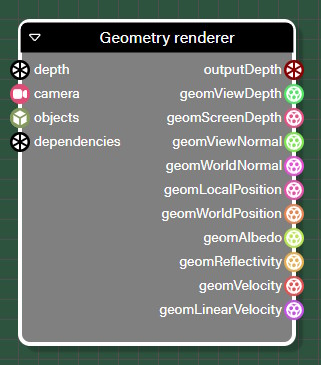
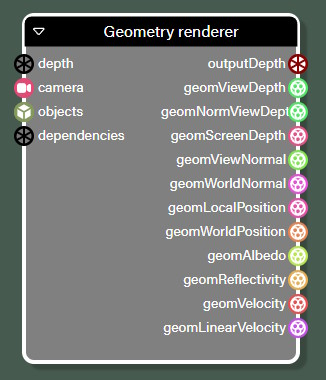
Add geometry texture VAT example to frame graph doc

diff --git a/content/features/featuresDeepDive/frameGraph/frameGraphExamples/frameGraphExampleGeometryVAT.md b/content/features/featuresDeepDive/frameGraph/frameGraphExamples/frameGraphExampleGeometryVAT.md
@@ -1,0 +1,121 @@
+---
+title: Generating geometry textures for VAT
+image:
+description: Use a frame graph to render geometry texture(s) for VAT
+keywords: diving deeper, frame graph, geometry, examples, vat,
+---
+
+## Introduction
+
+VAT (Vertex Animation Texture) or BVA (Baked Vertex Animation) is a way to support a large number of animated meshes by pre-calculating the animations. For more information, see [Baked Texture Animations](/features/featuresDeepDive/animation/baked_texture_animations).
+
+VAT is not supported by the [geometry buffer renderer](/typedoc/classes/babylon.geometrybufferrenderer). Therefore, if you use it to generate a normal map (or any other geometry texture) with VAT meshes, it will not work as expected.
+
+For example: <Playground id="#VI0JUJ#3" title="VAT and geometry buffer renderer" description="VAT not working with the geometry buffer renderer" isMain={false}/>
+
+You can see that the spiders are not animated in the normal texture (which is used as the emissive texture on the plane facing the camera).
+
+Let's use a frame graph to make it work!
+
+## Using a frame graph
+
+We will use a frame graph to generate the normal texture, instead of using the geometry buffer renderer as in the previous example.
+Note that the frame graph will not take control of the entire scene rendering loop: we will not set `scene.frameGraph` with our frame graph, but rather execute it manually.
+
+The frame graph is actually very simple; we only need a geometry renderer task and to configure it to generate the normal texture.
+
+First, we create the frame graph and the depth texture that will be used by the geometry renderer. We also clear the depth texture:
+```javascript
+const frameGraph = new BABYLON.FrameGraph(scene);
+
+const depthTexture = frameGraph.textureManager.createRenderTargetTexture("depth", {
+    size: { width: 100, height: 100 },
+    sizeIsPercentage: true,
+    options: {
+        createMipMaps: false,
+        types: [BABYLON.Constants.TEXTURETYPE_UNSIGNED_BYTE],
+        formats: [BABYLON.Constants.TEXTUREFORMAT_DEPTH32_FLOAT],
+        samples: 1,
+        useSRGBBuffers: [false],
+        labels: ["depth"],
+    },
+});
+
+const clearTask = new BABYLON.FrameGraphClearTextureTask("clear", frameGraph);
+
+clearTask.clearColor = false;
+clearTask.clearDepth = true;
+clearTask.depthTexture = depthTexture;
+
+frameGraph.addTask(clearTask);
+```
+We can now create the geometry renderer task:
+```javascript
+const rlist = {
+    meshes: [mesh],
+    particleSystems: []
+}
+
+const geomRendererTask = new BABYLON.FrameGraphGeometryRendererTask("geomRenderer", frameGraph, scene);
+
+geomRendererTask.depthTexture = clearTask.outputDepthTexture;
+geomRendererTask.objectList = rlist;
+geomRendererTask.camera = camera;
+geomRendererTask.samples = 1;
+geomRendererTask.textureDescriptions.push({
+    type: BABYLON.Constants.PREPASS_NORMAL_TEXTURE_TYPE,
+    textureFormat: BABYLON.Constants.TEXTUREFORMAT_RGBA,
+    textureType: BABYLON.Constants.TEXTURETYPE_UNSIGNED_BYTE,
+});
+
+frameGraph.addTask(geomRendererTask);
+```
+Note how we configure the task to generate the normal texture: this is an entry we add to the `geomRendererTask.textureDescriptions` array of the task.
+
+That's all it takes to create the graph. Now we need to retrieve the texture and set it as the emissive texture of the plane material:
+```javascript
+let texture = null;
+
+frameGraph.onBuildObservable.add(() => {
+    const geomTexture = frameGraph.textureManager.getTextureFromHandle(geomRendererTask.geometryViewNormalTexture);
+    geomTexture.incrementReferences();
+
+    texture?.dispose();
+    texture = new BABYLON.Texture("", scene, {
+        internalTexture: geomTexture
+    });
+    texture.name = "GeomRenderer normal";
+    mat.emissiveTexture = texture;
+});
+```
+The texture can only be retrieved after the frame graph has been built, so `frameGraph.onBuildObservable` is the appropriate place to add our code. The code itself retrieves the actual texture (an `InternalTexture` instance) from the texture handle. Note that we increment the number of references to the texture, because we wrap this internal texture in a `Texture` instance (an `InternalTexture` instance cannot be defined as `mat.emissiveTexture`) and the `Texture.dispose` method decrements the number of references.
+
+All that remains is to write the code to build the frame graph and execute it:
+```javascript
+frameGraph.build();
+
+await frameGraph.whenReadyAsync();
+
+engine.onResizeObservable.add(() => {
+    frameGraph.build();
+});
+
+scene.onBeforeRenderObservable.add(() => {
+    frameGraph.execute();
+});
+```
+The full PG: <Playground id="#CP2RN9#293" title="VAT and frame graph" description="VAT working when using a frame graph" isMain={false} image="/img/playgroundsAndNMEs/pg-VI0JUJ-3.png"/>
+
+You can see that the spiders are now animated in the normal texture.
+
+## Using a node render graph
+
+For completeness, here is the same thing using a node render graph:
+
+Node Render Graph: <NRGE id="#USAV67#4" title="VAT and frame graph (NRGE)" description="VAT working when using a frame graph (NRGE)" isMain={false}/>
+
+PG: <Playground id="#CP2RN9#300" title="VAT and frame graph (PG)" description="VAT working when using a frame graph (PG)" isMain={false} image="/img/playgroundsAndNMEs/pg-VI0JUJ-3.png"/>
+
+Notes:
+* We disable `autoFillExternalInputs` when loading the node's render graph, because the list of meshes used by the geometry renderer task must not contain the plane on which we display the geometry texture (otherwise, you will get an error such as “GL_INVALID_OPERATION: glDrawElements: feedback loop formed between the frame buffer and the active texture").
+* We disable the `Output` block in the render graph to avoid copying the result of the graph execution to the default frame buffer, which is a waste of GPU resources as it will be overwritten by the actual rendering of the scene.

diff --git a/content/features/featuresDeepDive/frameGraph/frameGraphBlocks/frameGraphBlocksDescription.md b/content/features/featuresDeepDive/frameGraph/frameGraphBlocks/frameGraphBlocksDescription.md
@@ -82,7 +82,7 @@ You can modify the parameters of a post-process by clicking on it and changing t
 
 ![Parameters of DoF](/img/frameGraph/dof_parameters.jpg)
 
-You should refer to the post-process class in the Babylon framework if you need an explanation of what each parameter does for a given post-process block ([this page](https://doc.babylonjs.com/typedoc/classes/BABYLON.DepthOfFieldEffect) for depth of field, for example).
+You should refer to the post-process class in the Babylon framework if you need an explanation of what each parameter does for a given post-process block ([this page](/typedoc/classes/BABYLON.DepthOfFieldEffect) for depth of field, for example).
 
 In the rest of this section, we will focus on post-processes that have special features and will skip post-processes that should be self-explanatory (those for which you just need to connect the right inputs and define the right values for their parameters!).
 
@@ -136,7 +136,18 @@ The **shadowGenerators** input is optional and can be used if you want to genera
 
 <H3Image title="GeometryRenderer" image="/img/frameGraph/block_geometry_renderer.jpg" alt="GeometryRenderer node"/>
 
-This block is used to generate geometry textures, i.e. textures containing special data such as depths in view/screen space, normals in view/world space, reflectivity, etc.
+This block is used to generate geometry textures, i.e. textures containing special data such as depths in view/screen space, normals in view/world space, reflectivity, etc. Here is a list of all outputs that this block can generate:
+* **geomViewDepth**: depth in camera view space. This is the Z component of the vertex coordinate in the camera's view space and is a value between **near** and **far**, the camera's near and far clipping planes.
+* **geomNormViewDepth**: normalized depth in camera view space. Identical to the value above, but with values between 0 and 1, calculated using the formula `normViewDepth = (viewDepth - near) / (far - near)`.
+* **geomScreenDepth**: depth in screen space. This is the depth written to the depth buffer (`gl_FragCoord.z`) and is a value between 0 and 1.
+* **geomViewNormal**: normal in camera view space. This is the normal to the vertex in camera view space. The vector is normalized before being written to the texture.
+* **geomWorldNormal**: normal in world space. This is the normal at the vertex in world space. The vector is normalized before being written to the texture. It is also scaled and offset by 0.5 to generate components between 0 and 1.
+* **geomLocalPosition**: position in local space. This is the position of the vertex in the object model space, i.e., before any camera or world transformations.
+* **geomWorldPosition**: position in world space. This is the position of the vertex in world space.
+* **geomAlbedo**: albedo color. This is the albedo/diffuse color of the vertex.
+* **geomReflectivity**: reflectivity color. This is the reflectivity color of the vertex (used by SSR, for example).
+* **geomVelocity**: velocity vector in screen space. See [Motion blur by object](https://john-chapman-graphics.blogspot.com/2013/01/per-object-motion-blur.html) for more details on what a velocity texture is. **geomVelocity** is a texture constructed with the optimization described in the “Format and precision” section to improve accuracy when using an unsigned byte texture type.
+* **geomLinearVelocity**: linear velocity vector in screen space. It is identical to the one above, but without the optimization, so without the `pow()` call. The coordinates are multiplied by 0.5, so that they are between [-0.5, 0.5] instead of [-1, 1].
 
 To make these textures stand out, the corresponding outputs are all preceded by the prefix **geom**. The same goes for the blocks that are expecting one (or more) of these geometry textures as input. For example:
 
@@ -146,7 +157,9 @@ This makes it clear what kind of texture is expected for a given input and shoul
 
 <H3Image title="ShadowGenerator and CascadedShadowGenerator" image="/img/frameGraph/block_shadowgenerator.jpg" alt="ShadowGenerator and CascadedShadowGenerator nodes"/>
 
-Use this block when you want to generate shadows from a light. The light must be a “shadow light”, i.e. any light except area lights and hemispherical lights. The `CascadedShadowGenerator` block has the same inputs and outputs as the `ShadowGenerator` block, but with additional parameters (click on the block to access the list of parameters).
+Use this block when you want to generate shadows from a light. The light must be a “shadow light”, i.e. any light except area lights and hemispherical lights.
+
+The `CascadedShadowGenerator` block has additional parameters compared to the `ShadowGenerator` block (click on the block to access the list of parameters). It also has an additional (optional) input called **geomDepth**. You must connect a geometry depth (either “view,” “normalized view,” or “screen” - if possible, connect “normalized view,” or “screen” for best performance) to this input if you plan to use the [autoCalcDepthBounds](/typedoc/classes/babylon.cascadedshadowgenerator#autocalcdepthbounds) feature. If you do not, do not connect anything to the input to avoid generating a geometry texture when it is not needed.
 
 You may be surprised to see a **camera** input, because the scene is rendered from the point of view of the light to generate the shadow map, not from the point of view of a camera. This camera is necessary to:
 * split the camera frustum when using a `CascadedShadowGenerator` block

diff --git a/content/features/featuresDeepDive/animation/baked_texture_animations.md b/content/features/featuresDeepDive/animation/baked_texture_animations.md
@@ -71,7 +71,7 @@ mesh.registerInstancedBuffer("bakedVertexAnimationSettingsInstanced", 4);
 mesh.instancedBuffers.bakedVertexAnimationSettingsInstanced = new BABYLON.Vector4(0, 0, 0, 0);
 ```
 
-<Playground id="#CP2RN9#18" title="Vertex Texture Animations on instances" description="An example of playing VATs on instances."/>
+<Playground id="#CP2RN9#290" title="Vertex Texture Animations on instances" description="An example of playing VATs on instances."/>
 
 ## VATs for thin instances
 
@@ -97,7 +97,7 @@ mesh.thinInstanceSetBuffer("bakedVertexAnimationSettingsInstanced", animParamete
 
 Here's an example:
 
-<Playground id="#CP2RN9#20" title="Vertex Texture Animations on thin instances" description="An example of playing VATs on thin instances."/>
+<Playground id="#CP2RN9#291" title="Vertex Texture Animations on thin instances" description="An example of playing VATs on thin instances."/>
 
 ### VATs offset
 
@@ -124,7 +124,7 @@ function computeOffset(
 
 The `time` parameter can be retrieved directly from the used `BakedVertexAnimationManager` via `manager.time`.
 
-<Playground id="#3NIXCL#519" title="Vertex Texture Animations on thin instances at offset" description="An example of playing VATs on thin instances with specific offset."/>
+<Playground id="#3NIXCL#707" title="Vertex Texture Animations on thin instances at offset" description="An example of playing VATs on thin instances with specific offset."/>
 
 
 ## Serializing and loading VATs
